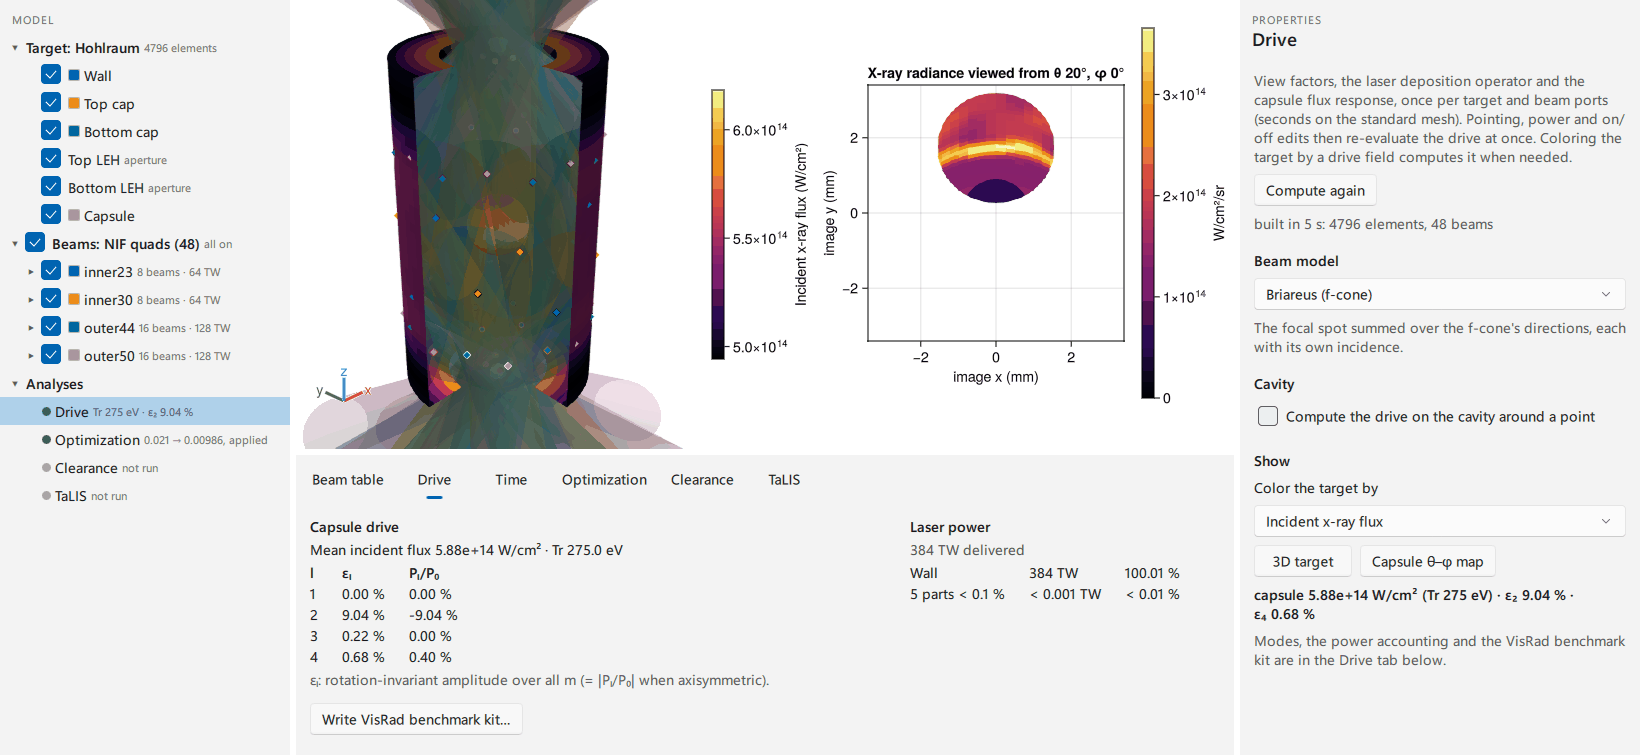
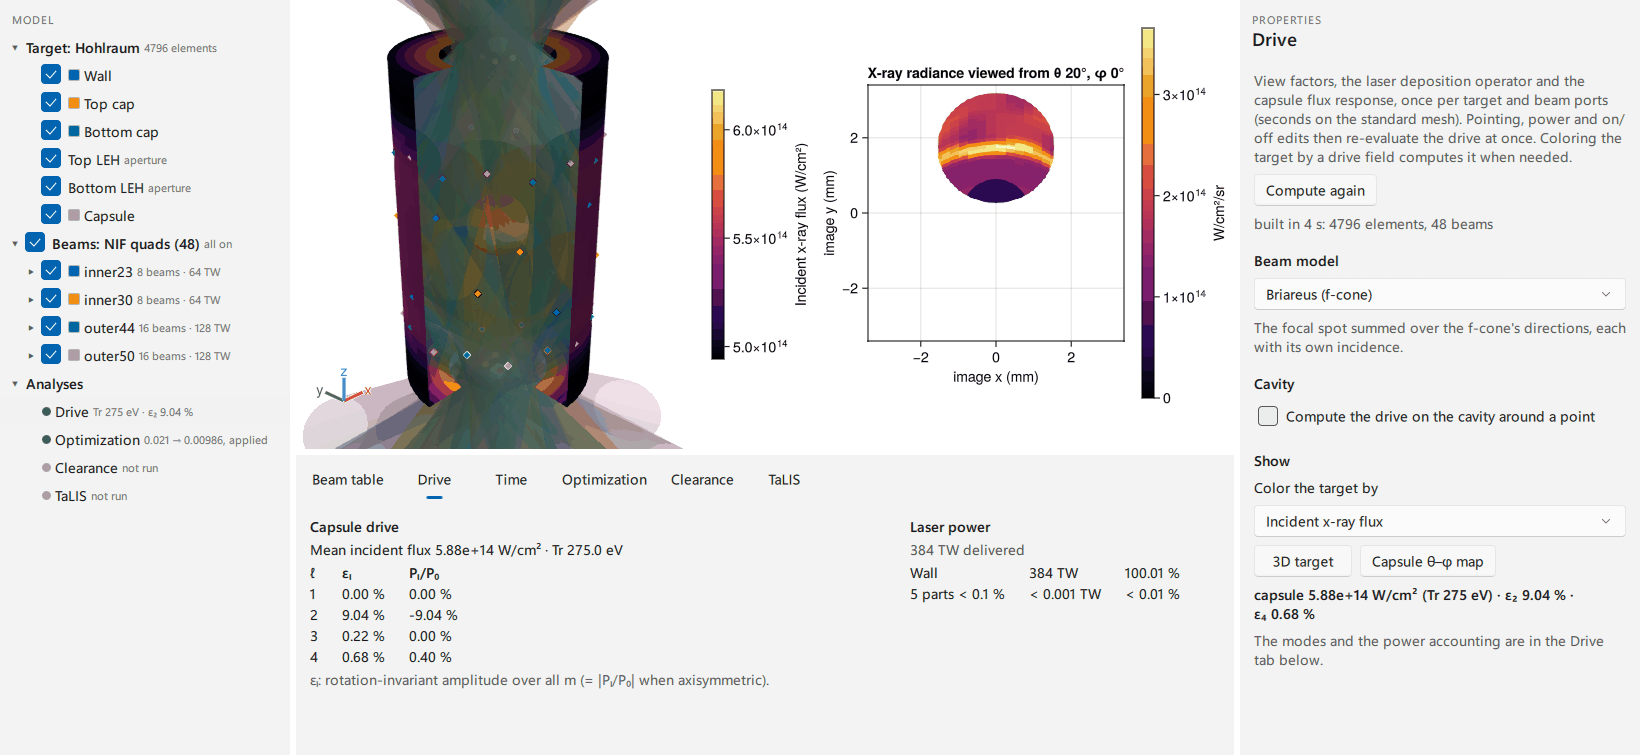
GUI: remove the VisRad benchmark kit
The kit stays a scripting step: Briareus's `write_visrad_kit` and
`compare_visrad` are unchanged. Removed from BriareusGUI: the
`write_visrad_kit!` controller and its exports, the drive state's
`kit_running`/`kit_status`, the `br_write_kit` bridge and the
`kitRunning`/`kitStatus` properties, the File menu item, the Drive tab
button and the folder dialog. The results export and the retune, which
were gated on `kitReady`, now use the existing `driveCurrent` property.
Tests drop the kit checks and keep the windows-in-the-drive checks; the
docs point to `write_visrad_kit` for scripted kits. The overview, x-ray
and backlighter screenshots (and optimize, from the same run) are
regenerated without the button.

diff --git a/BriareusGUI/src/qml/BriareusWindow.qml b/BriareusGUI/src/qml/BriareusWindow.qml
@@ -47,7 +47,6 @@ ApplicationWindow {
         Julia.br_select("task:" + key)
         results.show(key)
     }
-    function openKitDialog() { kitDialog.open() }
     function openClearanceExport() { fileDialog.run("export_clearance") }
     function openTalisExport() { fileDialog.run("export_talis") }
 
@@ -95,8 +94,7 @@ ApplicationWindow {
             Action { text: "Export beam table…"; onTriggered: fileDialog.run("export_beams") }
             Action { text: "Export VisRad SST pointing…"; onTriggered: fileDialog.run("export_sst") }
             Action { text: "Export VisRad beam summary…"; onTriggered: fileDialog.run("export_summary") }
-            Action { text: "Write VisRad benchmark kit…"; enabled: app.kitReady && !app.kitRunning; onTriggered: kitDialog.open() }
-            Action { text: "Export results (CSV)…"; enabled: app.kitReady; onTriggered: resultsDialog.open() }
+            Action { text: "Export results (CSV)…"; enabled: app.driveCurrent; onTriggered: resultsDialog.open() }
             Action { text: "Export target as STL…"; onTriggered: exportStlDialog.open() }
             MenuSeparator {}
             Action { text: "Save view as image…"; onTriggered: saveViewDialog.open() }
@@ -234,7 +232,7 @@ ApplicationWindow {
                 onTriggered: checked ? Julia.br_xray_image() : Julia.br_close_image()
             }
             Action { text: "TaLIS (NIF)…"; enabled: app.facility === "nif"; onTriggered: win.showTask("talis") }
-            Action { text: "Retune to a reference drive…"; enabled: app.kitReady; onTriggered: retuneDialog.open() }
+            Action { text: "Retune to a reference drive…"; enabled: app.driveCurrent; onTriggered: retuneDialog.open() }
             Action {
                 text: "Drive history"
                 enabled: app.timeHasPulses && !app.timeRunning
@@ -432,11 +430,6 @@ ApplicationWindow {
         title: "Folder for the results (laser, radiosity and flux per element, modes, powers)"
         onAccepted: Julia.br_export_results(selectedFolder.toString())
     }
-    FolderDialog {
-        id: kitDialog
-        title: "Folder for the VisRad benchmark kit"
-        onAccepted: Julia.br_write_kit(selectedFolder.toString())
-    }
     // retune the enabled beams' pulses to a reference shot's capsule drive
     Dialog {
         id: retuneDialog
@@ -499,7 +492,7 @@ ApplicationWindow {
             RowLayout {
                 Button {
                     text: "Retune"
-                    enabled: app.kitReady && !app.retuneRunning && retuneTable.text !== "" && retuneOut.text !== ""
+                    enabled: app.driveCurrent && !app.retuneRunning && retuneTable.text !== "" && retuneOut.text !== ""
                     onClicked: Julia.br_retune(retuneTable.text, retuneOut.text, retuneBy.currentValue,
                                                retuneCap.text, retuneStay.text)
                 }

diff --git a/BriareusGUI/src/qml/panels/DrivePanel.qml b/BriareusGUI/src/qml/panels/DrivePanel.qml
@@ -1,4 +1,4 @@
-// Drive results: capsule modes, foil spot, laser power accounting, VisRad benchmark kit.
+// Drive results: capsule modes, foil spot, laser power accounting.
 import QtQuick
 import QtQuick.Controls
 import QtQuick.Layouts
@@ -76,19 +76,5 @@ ScrollPage {
             }
         }
         Item { Layout.fillWidth: true }
-    }
-    RowLayout {
-        spacing: 8
-        Layout.topMargin: 6
-        Button {
-            text: "Write VisRad benchmark kit…"
-            enabled: app.kitReady && !app.kitRunning
-            onClicked: win.openKitDialog()
-            ToolTip.visible: hovered
-            ToolTip.text: "Write the pointing (SST), the beam summary, the beam table, a README with " +
-                          "the geometry and the VisRad steps, and these results to compare against"
-        }
-        BusyIndicator { running: app.kitRunning; visible: running; Layout.preferredHeight: 28; Layout.preferredWidth: 28 }
-        Note { text: app.kitStatus }
     }
 }

diff --git a/BriareusGUI/src/qml/inspector/DriveProps.qml b/BriareusGUI/src/qml/inspector/DriveProps.qml
@@ -115,5 +115,5 @@ ColumnLayout {
         onEdited: (text) => Julia.br_set_spot_radius(text)
     }
     Label { text: app.driveSummary; visible: app.driveHasResult; wrapMode: Text.WordWrap; Layout.fillWidth: true; font.weight: Font.DemiBold }
-    Note { text: "Modes, the power accounting and the VisRad benchmark kit are in the Drive tab below." }
+    Note { text: "The modes and the power accounting are in the Drive tab below." }
 }

diff --git a/docs/src/gui.md b/docs/src/gui.md
@@ -261,10 +261,8 @@ The bottom panel's tabs:
 - **Drive:** the view factors are computed once per target and beam ports, on a
   worker; beam edits then re-evaluate at once. The tab shows the capsule's mode
   amplitudes and ``P_l/P_0``, the foil spot's statistics and the laser power accounting.
-  File ▸ Write VisRad benchmark kit ([`write_visrad_kit`](@ref)) writes the SST
-  pointing, the beam summary and beam table, a README with the geometry and the steps
-  to reproduce the case in VisRad, and the Briareus results, reusing the drive's view
-  factors.
+  A VisRad benchmark kit for the same case is written from a script with
+  [`write_visrad_kit`](@ref).
 - **Time:** the drive through a pulse. *Pulse table…* fires the beams with a pulse
   table ([`read_pulse_table`](@ref): power per beam against time, per cone group, quad
   or beam; disabled beams stay off), and *N221204 shape* with N221204's delivered pulse
@@ -371,7 +369,6 @@ edit_beam_node!(sess.beams, :group, "inner23", :z, "3.2")   # inner 23.5° cone 
 import_visrad_sst!(sess.beams, "pointing.csv")   # or apply a VisRad pointing file
 build_scenario!(sess)                            # view factors + evaluation
 drive_summary(sess.drive.result[])
-write_visrad_kit!(sess, "visrad_kit")            # benchmark kit for VisRad
 start_optimize!(sess; spawn = false)             # blocks; spawn = true runs on a worker
 accept_optimum!(sess)
 start_clearance!(sess; spawn = false)

diff --git a/BriareusGUI/README.md b/BriareusGUI/README.md
@@ -4,7 +4,7 @@
 and view-factor radiation design: build a hohlraum or backlighter target, point the
 beams, see the laser deposition and x-ray drive, optimize the pointing, and check beam
 clearance from the hardware and the TaLIS target-configuration rules, all in one
-window, with VisRad pointing, beam-summary, workspace and benchmark-kit files in and out.
+window, with VisRad pointing, beam-summary and workspace files in and out.
 
 ![The Briareus window](https://raw.githubusercontent.com/stillyslalom/Briareus.jl/main/docs/src/assets/gui/overview.png)
 
